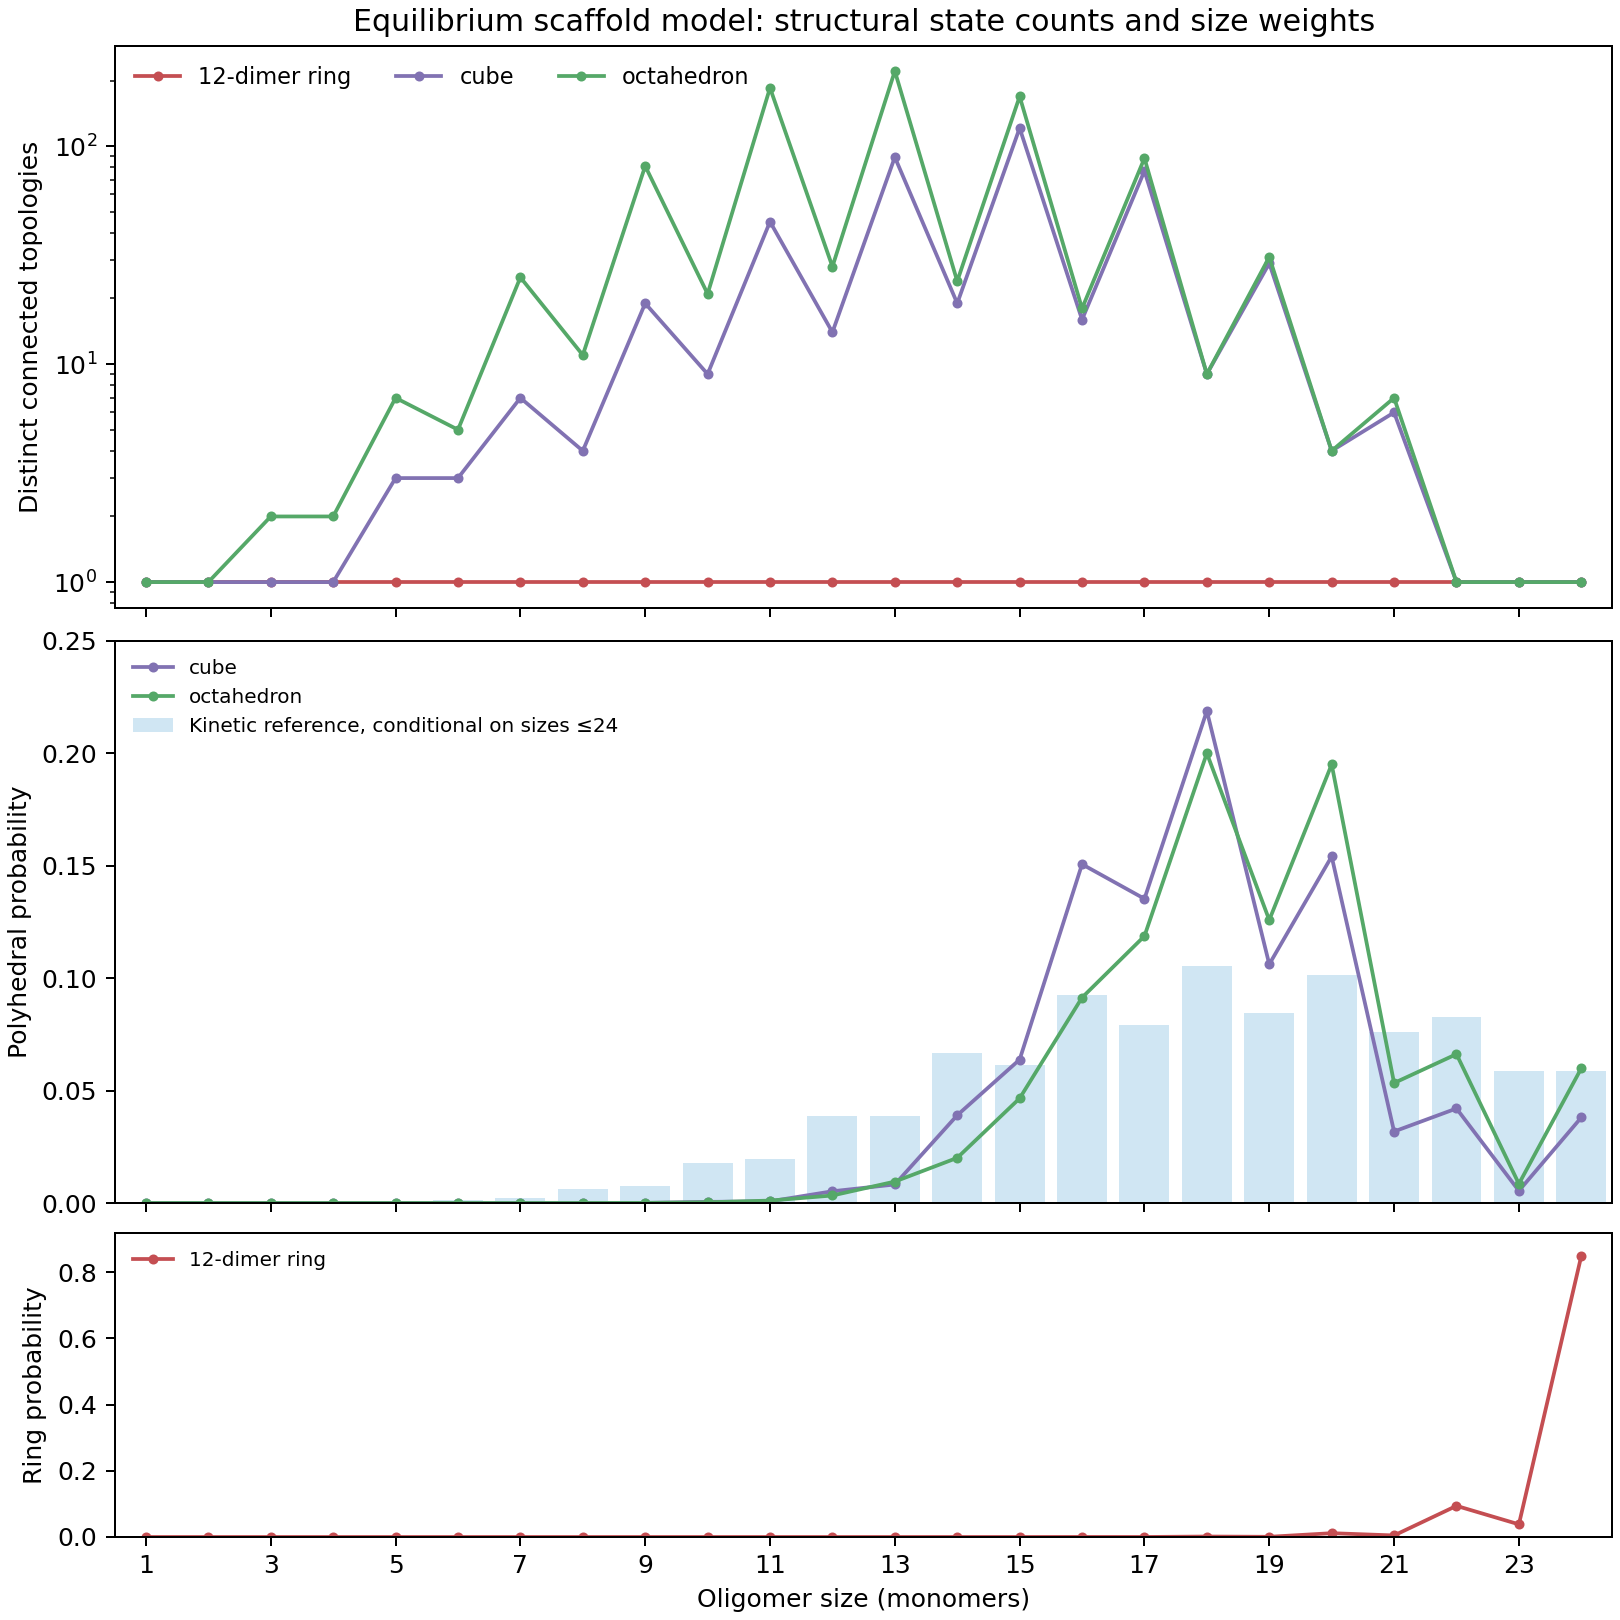
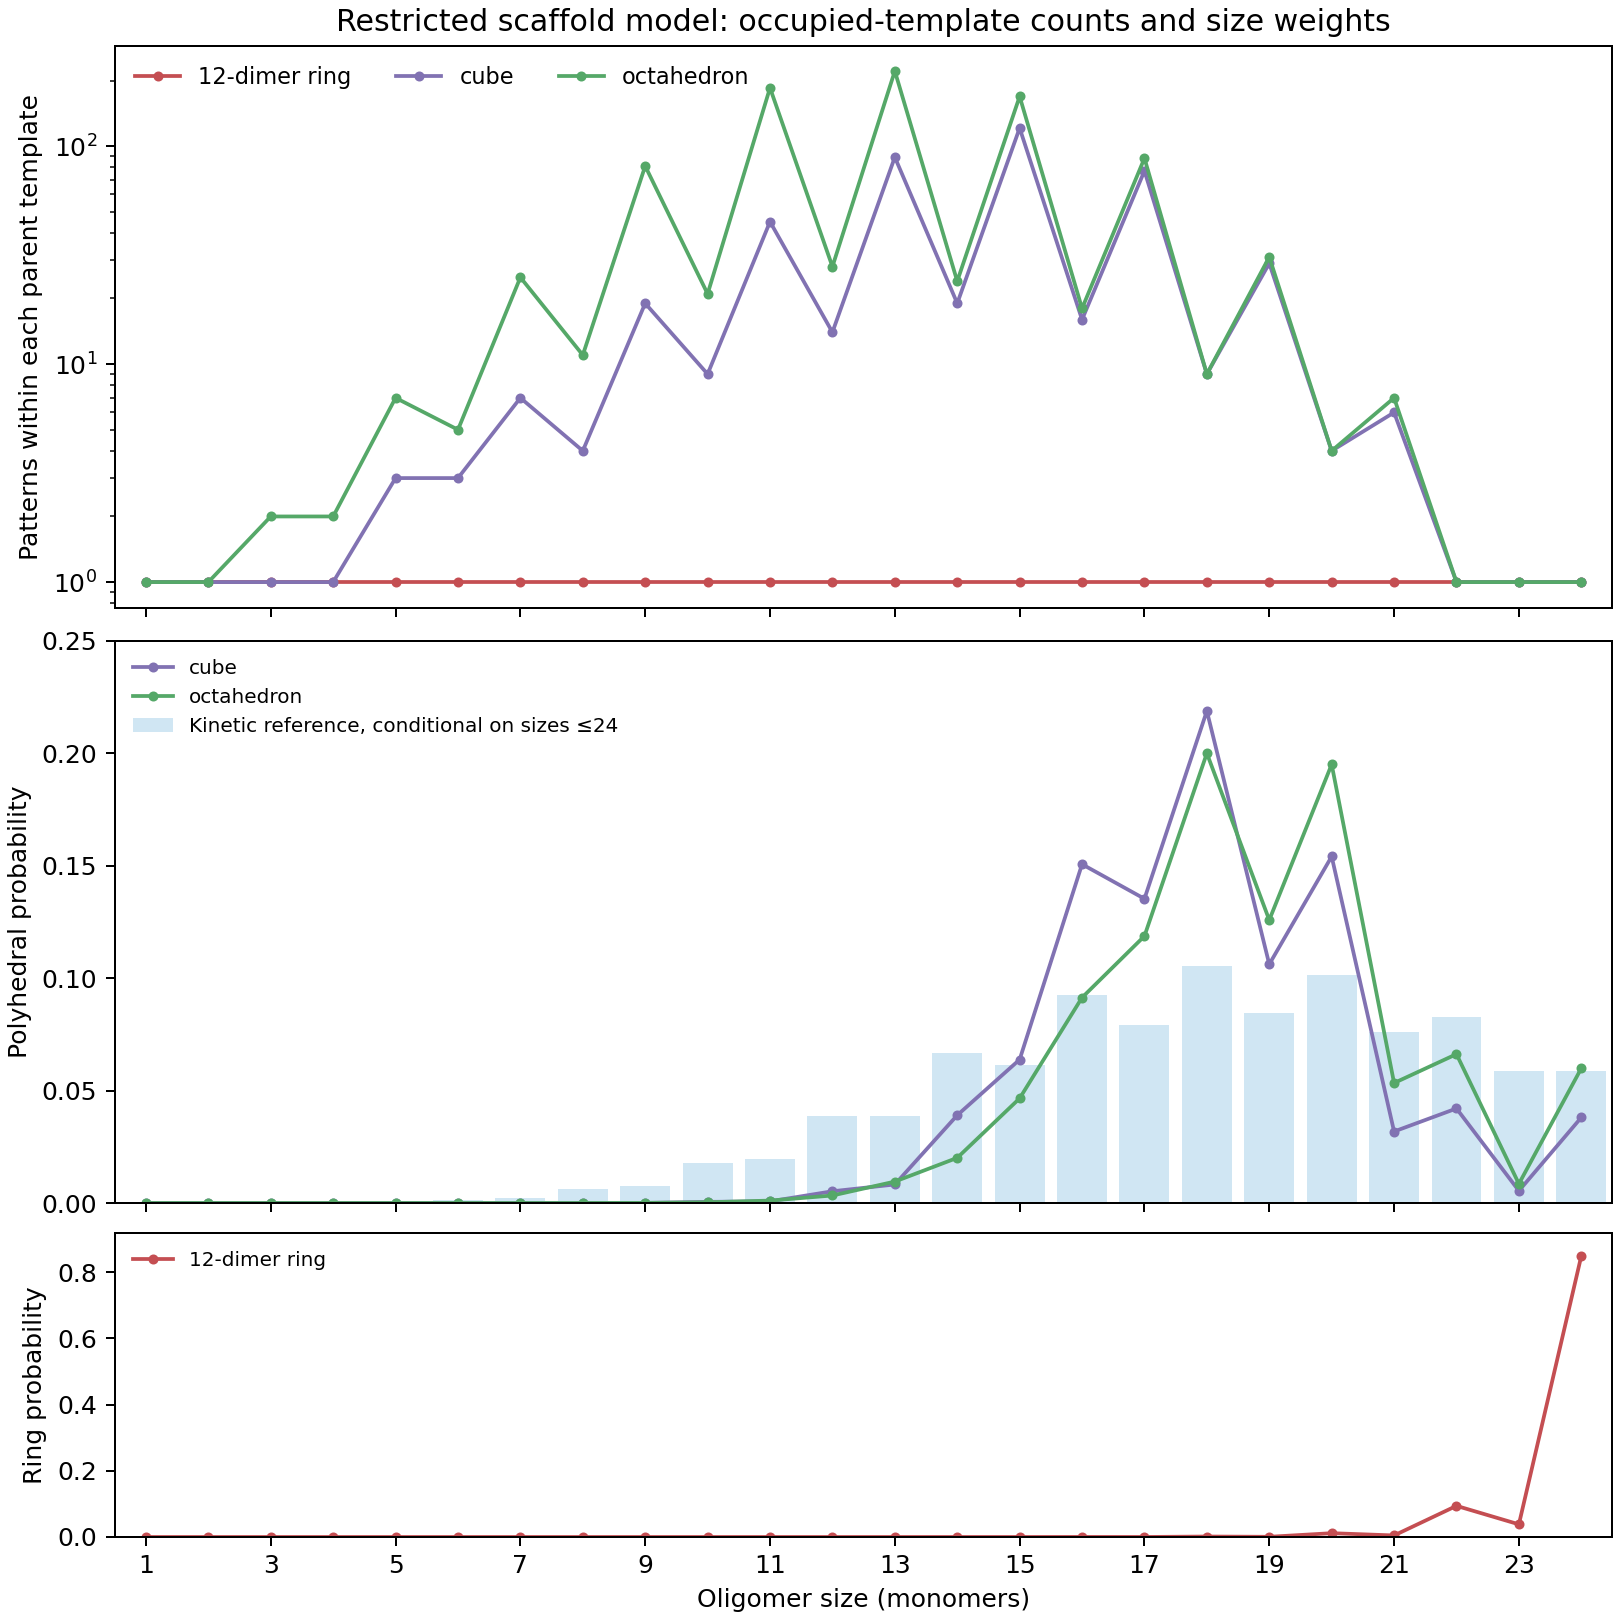
Clarify scaffold arrangement limits and candidate families

Changed region(s): [[0.216, 0.0, 0.8642, 0.0309], [0.0, 0.0617, 0.0309, 0.3395]]

diff --git a/single/statistical_mechanics/equilibrium_scaffold.py b/single/statistical_mechanics/equilibrium_scaffold.py
@@ -1,10 +1,11 @@
-"""Equilibrium cluster partition functions on finite dimer scaffolds.
+"""Illustrative equilibrium cluster partition functions on finite scaffolds.
 
-This is a genuinely static statistical-mechanical model: every connected
-occupancy pattern is given a Boltzmann weight, and configurations related by
-scaffold symmetry are counted once. No association or dissociation rate
-appears in the partition function. The scaffold is a *template of possible
-contacts*, not a claim that an empty protein shell exists in solution.
+This is a static statistical-mechanical model within one specified parent
+scaffold: each connected occupancy pattern is given a Boltzmann weight, and
+patterns related by that scaffold's symmetry are counted once. These are
+*not* all molecular arrangements at a given size. No association or
+dissociation rate appears in the partition function. The scaffold is a
+template of possible contacts, not a pre-existing empty protein shell.
 
 One may occupy whole dimeric edges, with at most one monomer left unpaired.
 At a vertex with q occupied monomer endpoints, q >= 2, the q monomers are
@@ -44,7 +45,7 @@ class EquilibriumParameters:
 
 @dataclass(frozen=True)
 class StateCatalogue:
-    """Counts of distinct connected topologies grouped by their contacts."""
+    """Symmetry-inequivalent occupied subgraphs of one parent scaffold."""
 
     scaffold_name: str
     max_size: int
@@ -104,7 +105,7 @@ def _monomer_automorphisms(scaffold: Scaffold) -> list[tuple[int, ...]]:
 
 
 def enumerate_states(scaffold: Scaffold) -> StateCatalogue:
-    """Enumerate distinct connected full-dimer or single-defect states.
+    """Enumerate connected full-dimer or single-defect template states.
 
     This is practical for a 24-mer parent (12 dimer edges). The orbit of a
     state under parent-scaffold symmetry is counted once, avoiding artificial

diff --git a/single/statistical_mechanics/compare_equilibrium.py b/single/statistical_mechanics/compare_equilibrium.py
@@ -50,10 +50,10 @@ def main() -> None:
         ax.plot(sizes, probability, marker="o", markersize=3,
                 linewidth=1.5, label=catalogue.scaffold_name, color=colour)
         print(f"{catalogue.scaffold_name}: {sum(multiplicity.values())} "
-              f"distinct connected topologies; equilibrium mode "
+              f"occupied parent-template patterns; illustrative mode "
               f"{int(sizes[np.argmax(probability)])}-mer")
-    ax_count.set(yscale="log", ylabel="Distinct connected topologies",
-                 title="Equilibrium scaffold model: structural state counts and size weights")
+    ax_count.set(yscale="log", ylabel="Patterns within each parent template",
+                 title="Restricted scaffold model: occupied-template counts and size weights")
     ax_count.legend(frameon=False, ncol=3, fontsize=9)
     ax_poly.bar(sizes, kinetic, width=0.8, color="#b8d9ed", alpha=0.65,
                 label="Kinetic reference, conditional on sizes ≤24")

diff --git a/single/statistical_mechanics/test_equilibrium_scaffold.py b/single/statistical_mechanics/test_equilibrium_scaffold.py
@@ -12,7 +12,7 @@ from single.statistical_mechanics.geometry import cube, dimer_ring, octahedron
 
 
 class EquilibriumScaffoldTests(unittest.TestCase):
-    def test_ring_has_one_distinct_connected_state_per_size(self):
+    def test_one_fixed_parent_ring_has_one_pattern_per_size(self):
         catalogue = enumerate_states(dimer_ring(12))
         by_size = Counter()
         for (n, _d, _c, _v), count in catalogue.counts.items():

diff --git a/single/statistical_mechanics/readme.md b/single/statistical_mechanics/readme.md
@@ -7,20 +7,20 @@ the specific-site thermodynamic interpretation in
 [Baldwin et al., *J. Mol. Biol.* 413 (2011)](https://baldwinlab.chem.ox.ac.uk/publications/2011%20alphaB%201.pdf),
 especially its Eqs. 5–7. The code here does not fit new experimental data.
 
-## Independent equilibrium scaffold model
+## Restricted equilibrium scaffold model
 
 `equilibrium_scaffold.py` now provides a **rate-free** statistical-mechanical
-model. A candidate ring, cube, or octahedron specifies possible dimeric edges
-and C-terminal contacts. We enumerate connected occupied configurations with
-intact dimer units and at most one unpaired monomer. Configurations related
-by scaffold symmetry count as one topology. For each size `n`, the cluster
-partition sum is
+model **within one chosen parent scaffold**. A ring, cube, or octahedron
+specifies possible dimeric edges and C-terminal contacts. We enumerate
+connected occupied configurations with intact dimer units and at most one
+unpaired monomer. Configurations related by that parent's symmetry are counted
+once. For each size `n`, the restricted partition sum is
 
 ```
-Z_n = Σ_{connected topologies s of size n}
+Z_n^(parent) = Σ_{allowed occupied states s of size n in this parent}
       exp[n*log(z) + D_s*epsilon_d + C_s*epsilon_C - V_s*kappa]
-P_n = Z_n / Σ_m Z_m
-F_n = -k_B*T*log(Z_n)
+P_n^(parent) = Z_n^(parent) / Σ_m Z_m^(parent)
+F_n^(parent) = -k_B*T*log(Z_n^(parent))
 ```
 
 Here `z` is monomer activity, `D_s` counts intact dimer contacts, `C_s`
@@ -29,12 +29,13 @@ vertices of degree at least three. The favourable contact strengths
 `epsilon_d` and `epsilon_C`, and the illustrative crowded-vertex penalty
 `kappa`, are dimensionless energies in units of `k_B T`. **No rate or
 kinetic recurrence enters these weights.** The size dependence instead
-comes from the number of distinct structural states and their contact
-energies. In particular, the octahedral template has many more partially
-filled topologies than nearly full ones, whereas a simple 12-dimer ring has
-one connected topology per size under these assumptions.
+comes from the number of allowed occupied states in the chosen parent and
+their contact energies. In particular, the octahedral template has many more
+partially filled patterns than nearly full ones, whereas a **single**
+12-dimer parent ring has one symmetry-inequivalent pattern per size under
+these restricted rules. That is not a count of all possible ring oligomers.
 
-`compare_equilibrium.py` plots those topology counts and a sample equilibrium
+`compare_equilibrium.py` plots those restricted counts and a sample equilibrium
 distribution against the kinetic result, conditioned on sizes `1..24` so the
 supports match. The example parameters (`log(z)=-1`, `epsilon_d=4`,
 `epsilon_C=0.05`, `kappa=1.1`) place the cube and octahedron modes at 18
@@ -53,6 +54,40 @@ value. Only one 24-monomer parent scaffold is considered at a time, so this
 example cannot predict oligomers above 24. A physical comparison needs a
 library of 24-, 26-, 28-, and other plausible scaffolds, their relative
 shape free energies, and concentration-dependent data to constrain `z`.
+
+### Other arrangements at the same size
+
+The [structural study](https://baldwinlab.chem.ox.ac.uk/publications/2011%20alphaB%203.pdf)
+explicitly sketches **seven** candidate 24-mer scaffold families: a single
+12-dimer ring; double 6-dimer rings; triple 4-dimer rings; quadruple
+3-dimer rings; a cube; an octahedron; and a mixed-degree elongated triangular
+pyramid. It proposes an augmented triangular prism for 26 monomers and a
+gyrobifastigium for 28. The current code includes only the single-ring,
+cube, and octahedron parents. The paper's ion-mobility comparison favours
+degree-four polyhedra, but that does not establish zero solution population
+for the other candidates.
+
+Even within one scaffold, there may be alternative dimer pairings, C-terminal
+wirings at a vertex, unpaired-monomer positions, and conformations. The code
+fixes the first two, identifies symmetry-equivalent positions, and omits
+conformational entropy. Its pattern counts therefore **must not be treated as
+the complete physical degeneracy**. Nor can separately normalized curves for
+the three parents be added: many small occupied fragments could represent
+the same molecule and would be counted more than once.
+
+The fuller equilibrium object would be
+
+```
+Z_n = z^n Σ_{architecture a at size n} q_(n,a)
+q_(n,a) = Σ_{distinct conformations c of a} exp[-F_(n,a,c)/(k_B*T)]
+P_n = Z_n / Σ_m Z_m
+```
+
+`q_(n,a)` must include the appropriate symmetry and conformational weights,
+and architectures must be deduplicated across parent templates. This is the
+next model, not a result already computed here. IM-MS collision cross sections
+and other structural restraints can narrow which `a` are plausible before
+their equilibrium weights are fitted.
 
 The rest of this document retains the exact kinetic reformulation and the
 earlier additive-contact examples as checks and contrasts. Their matching

diff --git a/readme.md b/readme.md
@@ -4,9 +4,9 @@ Repo for dealing with polydisperse proteins and their assembly.
 Initially, I will focus on homo-oligomers of small heat-shock proteins, using multiple different approaches: chemical kinetics, thermodynamics, and statistical mechanics.
 
 The `single/statistical_mechanics/` module now includes an independent
-equilibrium scaffold model. It counts connected ring and polyhedral contact
-configurations, assigns Boltzmann weights, and compares the resulting size
-distributions with the existing kinetic model. See
+equilibrium scaffold model. It counts connected contact configurations within
+one chosen ring or polyhedral parent, assigns Boltzmann weights, and compares
+the resulting size distributions with the existing kinetic model. See
 [its README](single/statistical_mechanics/readme.md) for the assumptions,
 equations, and figures.
 
